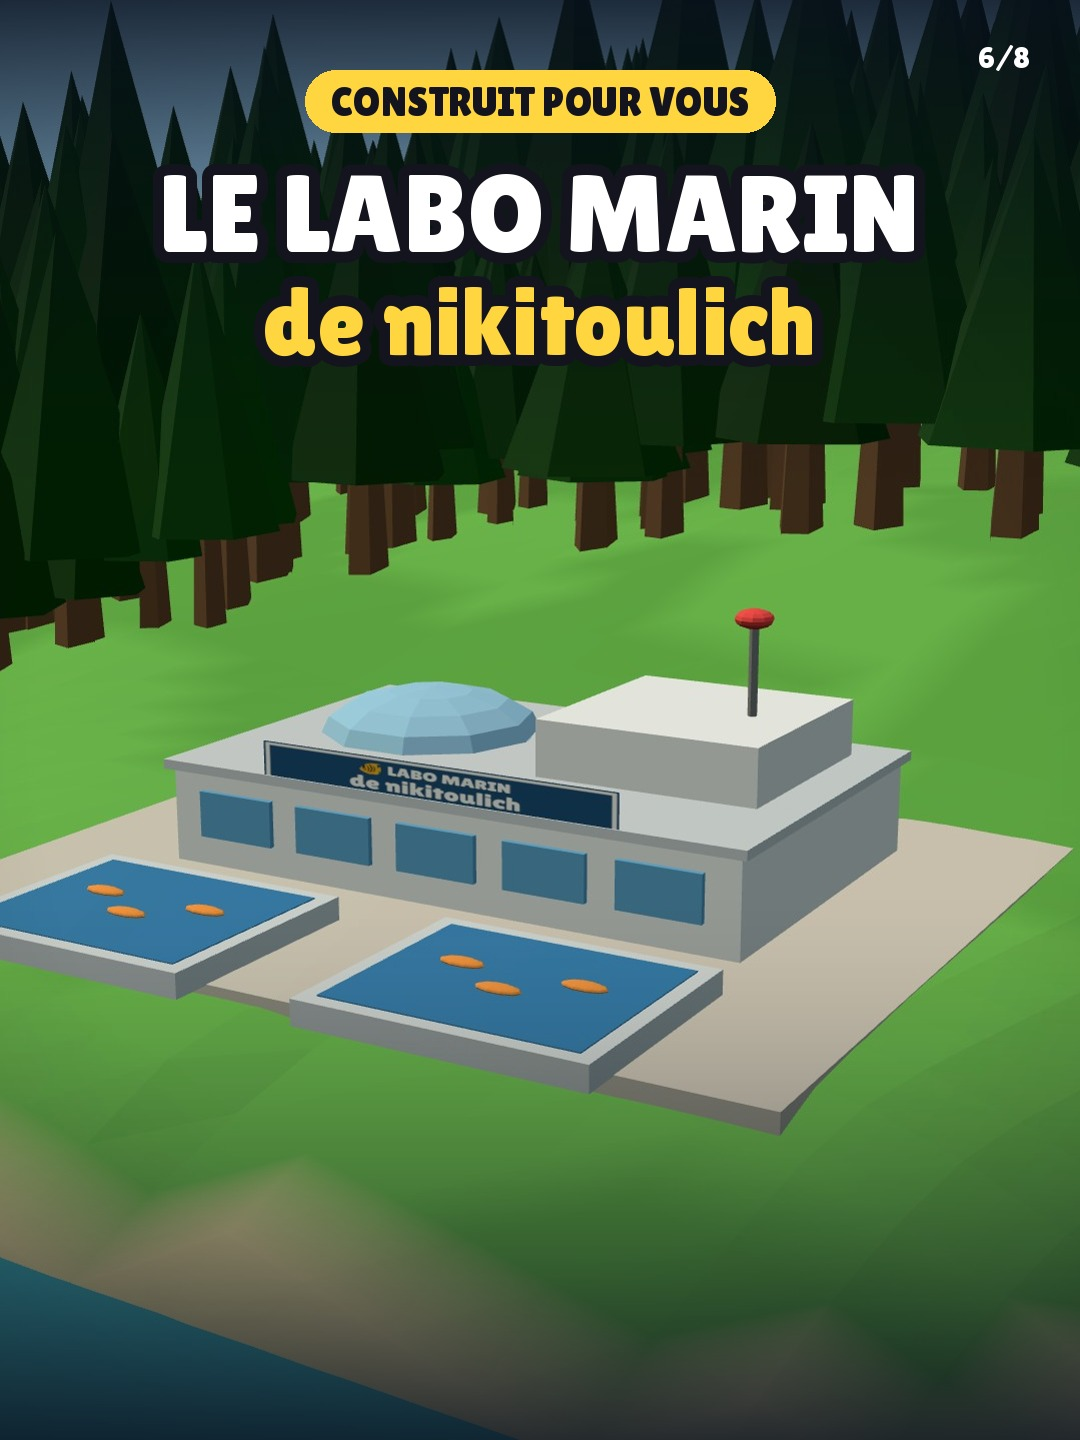
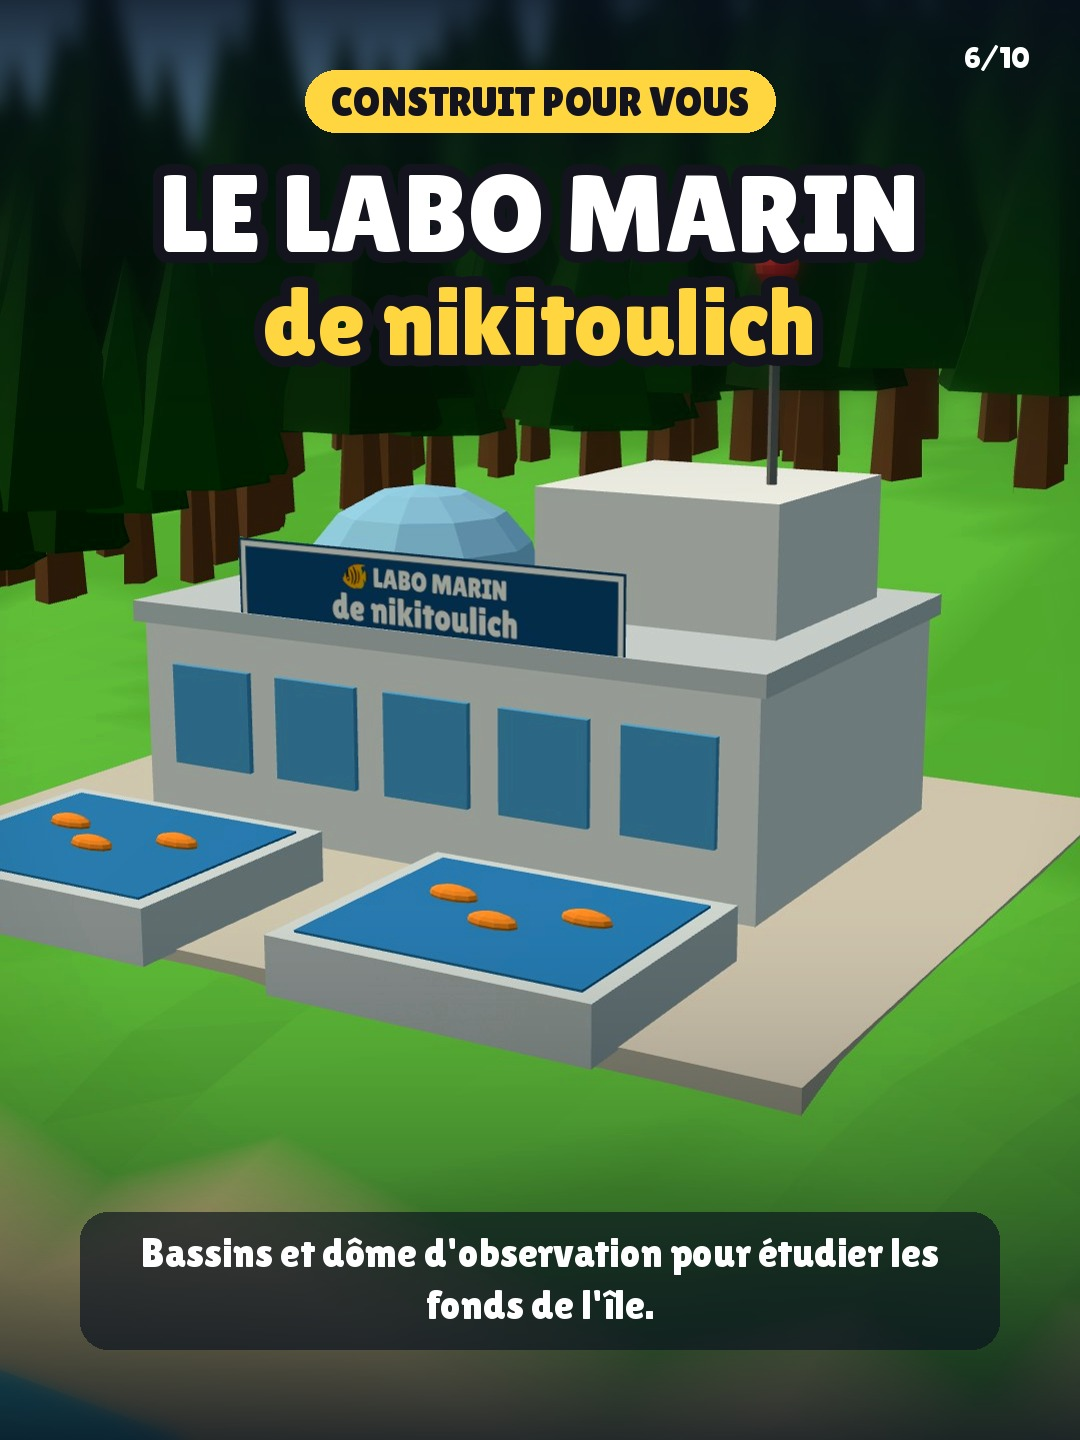
Carrousel : plus beau (étalonnage, flou miniature, vignette), textes narratifs, diapo finale « la suite en vidéo »
Claude-Session: https://claude.ai/code/session_016oAoDuGh4fq2rtVMYH1AUr

diff --git a/studio/recap_carrousel.py b/studio/recap_carrousel.py
@@ -2,9 +2,9 @@
 Lit jours/jourN/recap.json → "slides": [{img, haut, titre, jaune?, sous?, badge?, liste?, tresor?}] (images = rendus --propre copiés dans jours/jourN/)
 → jours/jourN/carrousel/01.jpg … (1080×1440). Une image plein cadre par diapo, peu de texte, gros."""
 import json, os, sys
-from PIL import Image, ImageDraw, ImageFont
+from PIL import Image, ImageDraw, ImageFont, ImageEnhance, ImageFilter
 ICI = os.path.dirname(os.path.abspath(__file__)); n = sys.argv[1]; D = os.path.join(ICI, '..', 'jours', f'jour{n}')
-R = json.load(open(os.path.join(D, 'recap.json'))); S = R['slides']; O = os.path.join(D, 'carrousel'); os.makedirs(O, exist_ok=True)
+R = json.load(open(os.path.join(D, 'recap.json'))); S = R['slides'] + ([dict(R['fin'], fin=True)] if R.get('fin') else []); O = os.path.join(D, 'carrousel'); os.makedirs(O, exist_ok=True)
 FT = os.path.join(ICI, 't', 'lilita.ttf')
 W, H = 1080, 1440; JAUNE, BLANC, ENCRE, ORANGE = (255, 214, 64), (255, 255, 255), (20, 20, 30), (226, 83, 29)
 font = lambda s: ImageFont.truetype(FT, s)
@@ -13,6 +13,12 @@ def degrade(h, haut=True):
 for i, s in enumerate(S, 1):
     f = Image.open(os.path.join(D, s['img'])).convert('RGB'); r = max(W / f.width, H / f.height); f = f.resize((int(f.width * r) + 1, int(f.height * r) + 1))
     oy = int((f.height - H) * s.get('cadre', .45)); im = f.crop(((f.width - W) // 2, oy, (f.width - W) // 2 + W, oy + H))
+    im = ImageEnhance.Color(im).enhance(1.18); im = ImageEnhance.Contrast(im).enhance(1.08)
+    flou = im.filter(ImageFilter.GaussianBlur(9 if not s.get('fin') else 22)); m = Image.new('L', (1, H))
+    for y in range(H): u = abs(y - H * .56) / (H * .5); m.putpixel((0, y), 255 if s.get('fin') else int(255 * max(0, min(1, (u - .45) / .45)) ** 1.3))
+    im = Image.composite(flou, im, m.resize((W, H)))
+    vig = Image.new('L', (W, H), 0); ImageDraw.Draw(vig).ellipse([-W * .25, -H * .2, W * 1.25, H * 1.2], fill=255); vig = vig.filter(ImageFilter.GaussianBlur(160))
+    im = Image.composite(im, ImageEnhance.Brightness(im).enhance(.55), vig)
     noir = Image.new('RGB', (W, 520), (8, 16, 30)); im.paste(noir, (0, 0), degrade(520, True)); im.paste(Image.new('RGB', (W, 560), (8, 16, 30)), (0, H - 560), degrade(560, False))
     d = ImageDraw.Draw(im)
     def centre(t, y, size, fill, stroke=9, maxw=960):
@@ -20,11 +26,23 @@ for i, s in enumerate(S, 1):
         while d.textlength(t, font=ff) > maxw and size > 24: size -= 3; ff = font(size)
         d.text(((W - d.textlength(t, font=ff)) / 2, y), t, font=ff, fill=fill, stroke_width=stroke, stroke_fill=ENCRE); return ff.size
     pf = font(30); pg = f'{i}/{len(S)}'; d.text((W - 50 - d.textlength(pg, font=pf), 40), pg, font=pf, fill=BLANC)
-    tf = font(40); t = s.get('haut', ''); w = d.textlength(t, font=tf)
+    tf = font(40); t = s.get('haut', '') or f"JOUR {R.get('jour', '')}"; w = d.textlength(t, font=tf)
     d.rounded_rectangle([(W - w) / 2 - 26, 70, (W + w) / 2 + 26, 132], radius=31, fill=JAUNE); d.text(((W - w) / 2, 79), t, font=tf, fill=ENCRE)
     y = 150; sz = centre(s['titre'], y, 150 if len(s['titre']) <= 8 else 110, BLANC, 11)
     if s.get('jaune'): centre(s['jaune'], y + sz + 6, 120 if len(s['jaune']) <= 10 else 96, JAUNE, 11)
+    if s.get('fin'):
+        cx, cy, R0 = W // 2, H // 2 - 40, 120; d.ellipse([cx - R0, cy - R0, cx + R0, cy + R0], fill=(226, 83, 29), outline=BLANC, width=10); d.polygon([(cx - 38, cy - 60), (cx - 38, cy + 60), (cx + 66, cy)], fill=BLANC)
     yb = H - 70
+    if s.get('texte'):
+        tf2 = font(40); mots = s['texte'].split(); lignes, l = [], ''
+        for m_ in mots:
+            if d.textlength((l + ' ' + m_).strip(), font=tf2) > 860: lignes.append(l); l = m_
+            else: l = (l + ' ' + m_).strip()
+        lignes.append(l); hcarte = 34 + 52 * len(lignes)
+        yt = (H - 70 - (84 if s.get('sous') else 0) - (130 if s.get('badge') else 0) - (120 if s.get('tresor') else 0) - 100 * len(s.get('liste', [])) - hcarte - 20) if not s.get('fin') else H // 2 + 130
+        carte = Image.new('RGBA', (920, hcarte), (8, 16, 30, 165)); mk = Image.new('L', (920, hcarte), 0); ImageDraw.Draw(mk).rounded_rectangle([0, 0, 919, hcarte - 1], radius=28, fill=165)
+        im.paste(carte.convert('RGB'), (80, yt), mk); d = ImageDraw.Draw(im)
+        for k, li in enumerate(lignes): d.text(((W - d.textlength(li, font=tf2)) / 2, yt + 18 + k * 52), li, font=tf2, fill=BLANC)
     if s.get('sous'): centre(s['sous'], yb - 64, 50, BLANC, 7); yb -= 84
     if s.get('badge'):
         bf = font(64); w = d.textlength(s['badge'], font=bf); d.rounded_rectangle([(W - w) / 2 - 40, yb - 112, (W + w) / 2 + 40, yb - 12], radius=50, fill=ORANGE); d.text(((W - w) / 2, yb - 100), s['badge'], font=bf, fill=BLANC); yb -= 130
